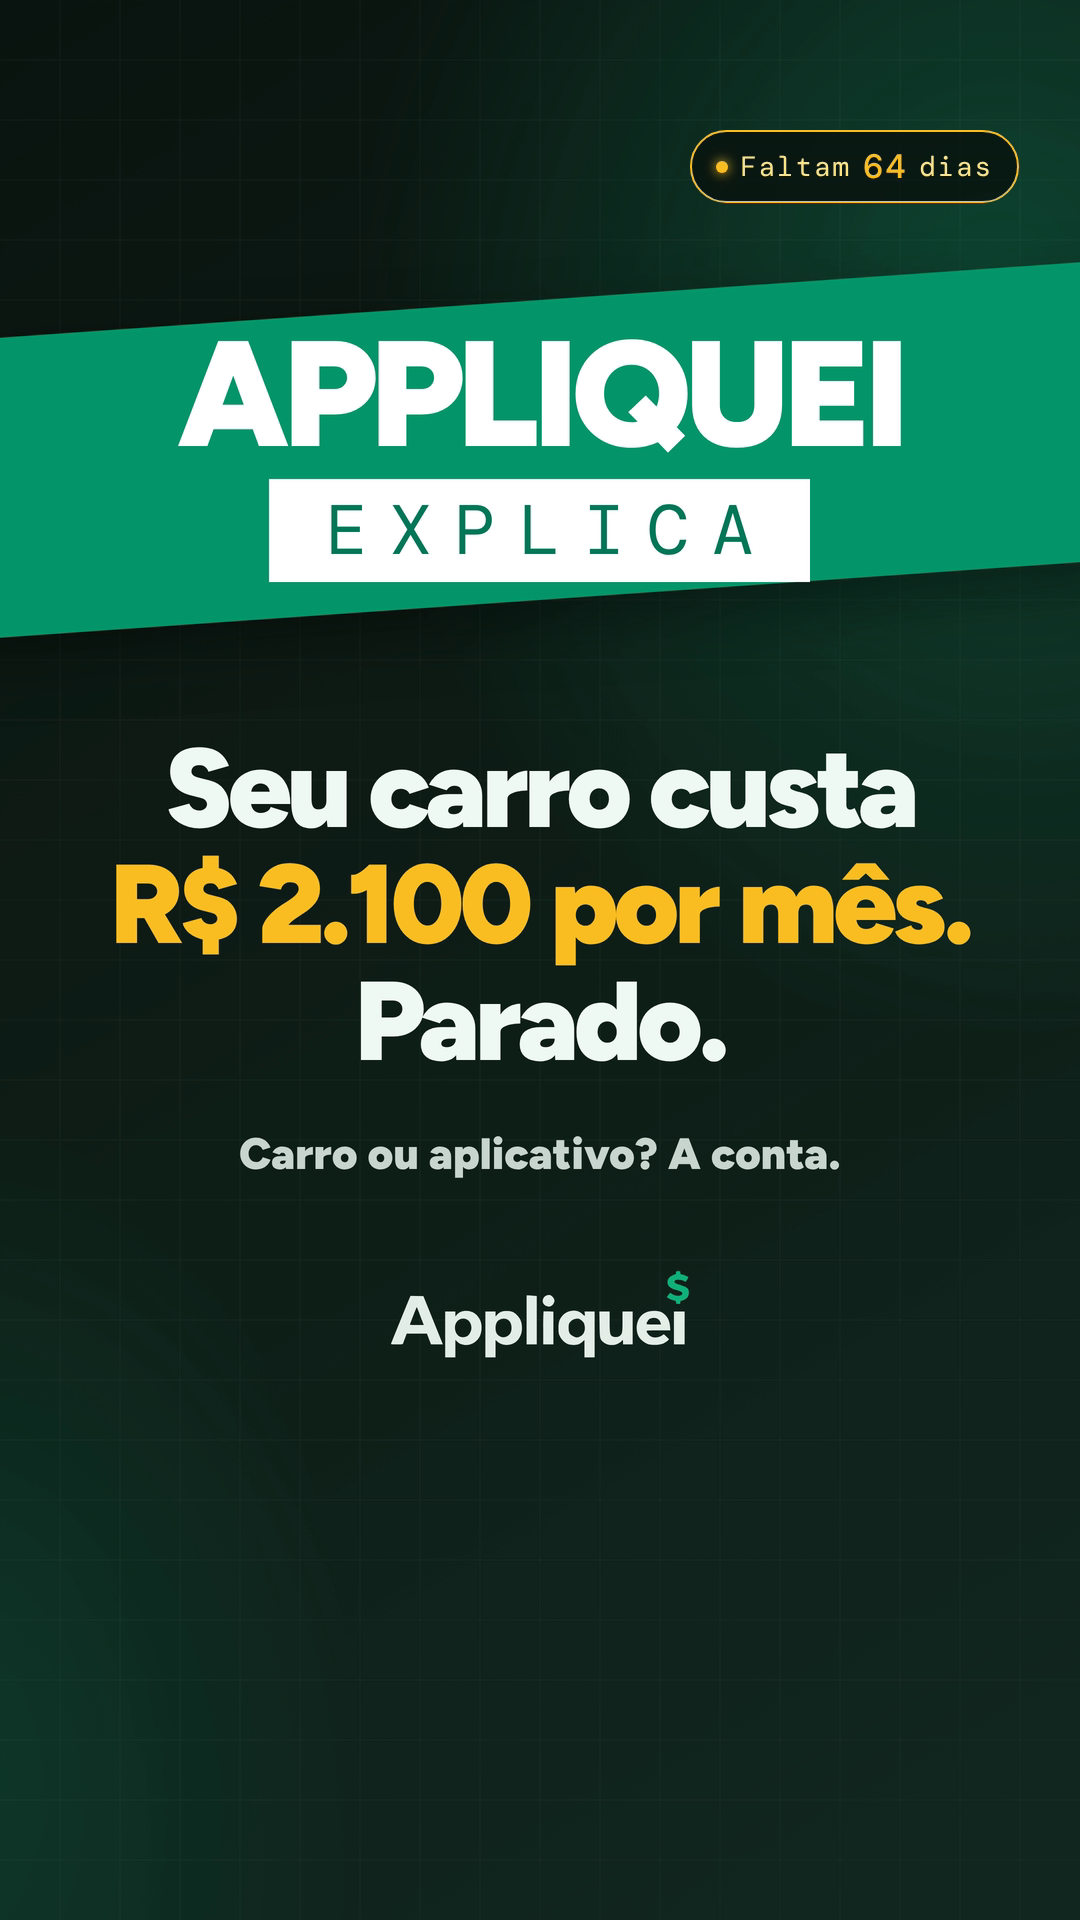
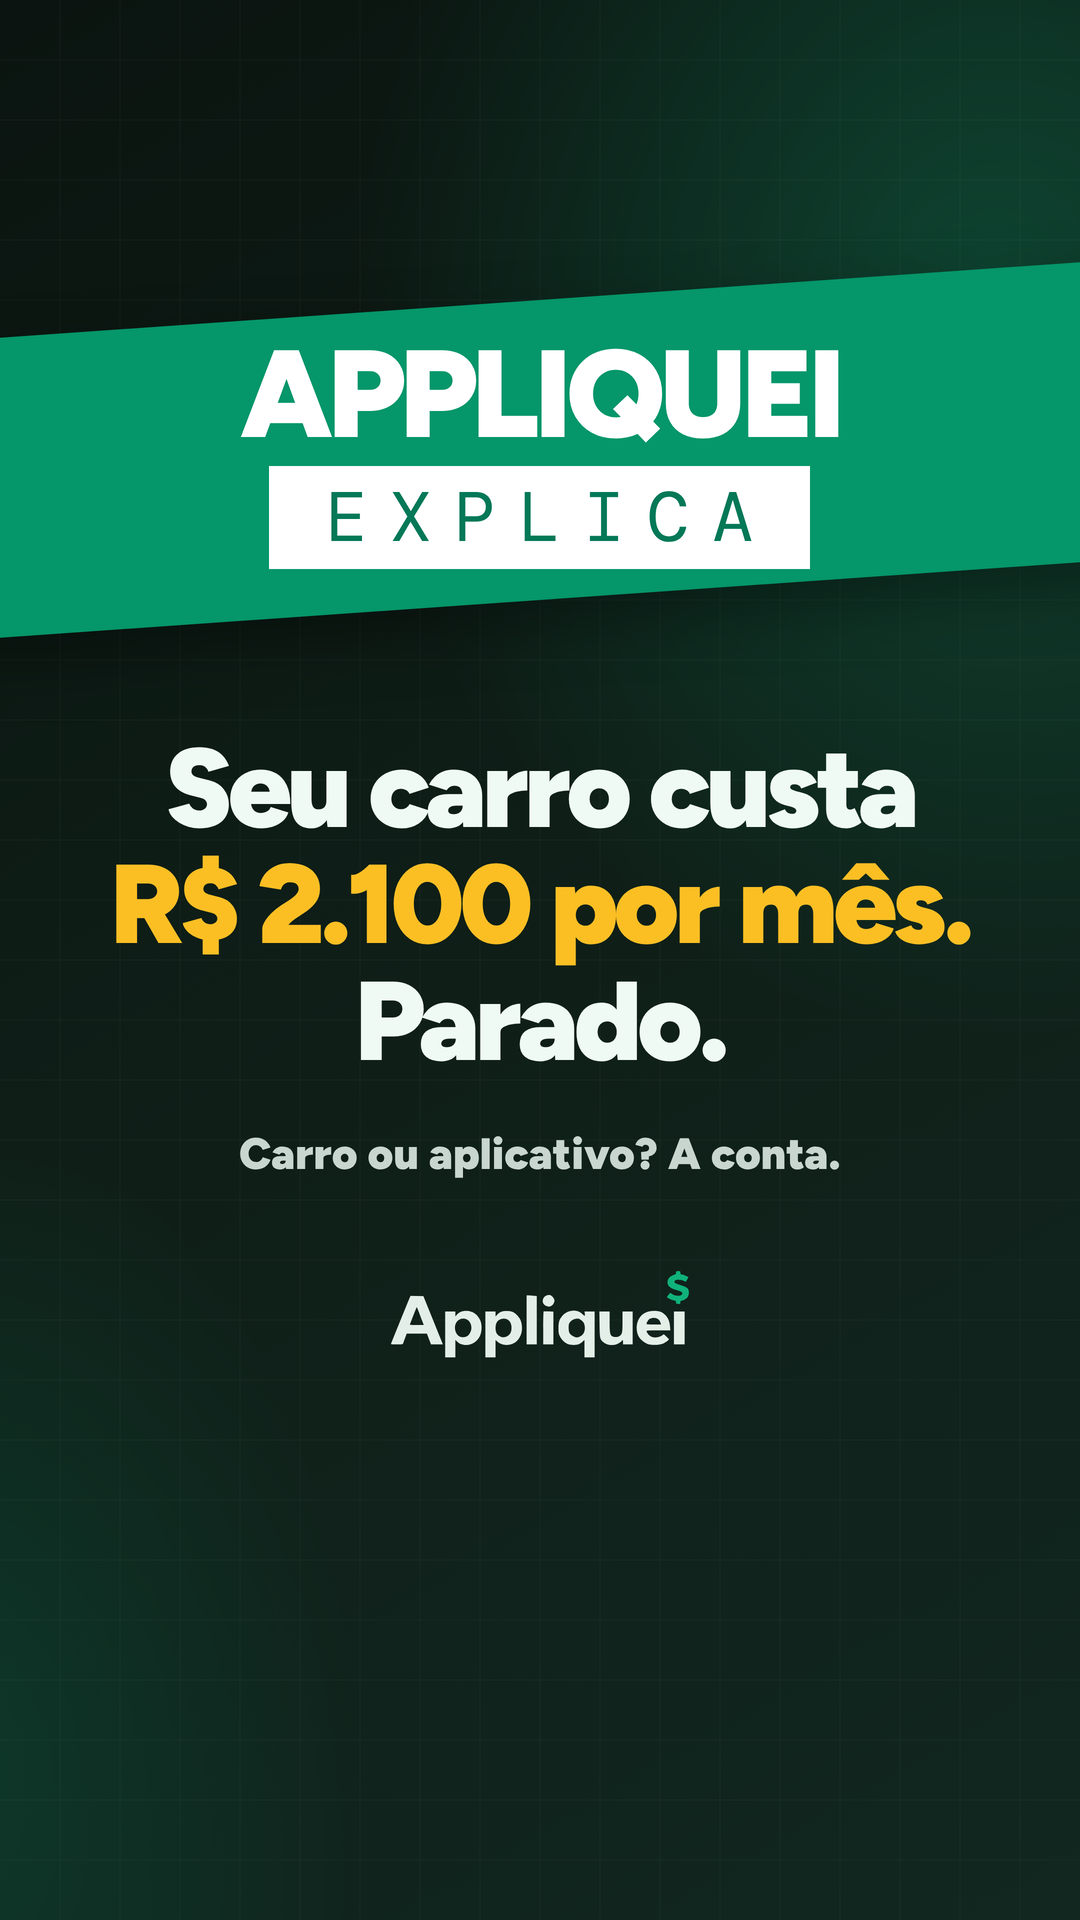
docs(marketing): plano de crescimento da página e capas no padrão novo (#218)
* Marketing: plano de crescimento da página até o lançamento

Claude-Session: https://claude.ai/code/session_01Hjqp9BZBHRq7RefmKXkXic

* Marketing: crescimento dentro da grade seg/qua/sex e pacote de 06/11 com CTA do próximo tema

Claude-Session: https://claude.ai/code/session_01Hjqp9BZBHRq7RefmKXkXic

* Marketing: sem rosto/voz dos sócios e passo a passo do perfil

Claude-Session: https://claude.ai/code/session_01Hjqp9BZBHRq7RefmKXkXic

* Marketing: corrige tipo do post do propósito

Claude-Session: https://claude.ai/code/session_01Hjqp9BZBHRq7RefmKXkXic

* Marketing: capas com faixa livre do ícone do Instagram e plano do perfil a partir do print de 05/11

Claude-Session: https://claude.ai/code/session_01Hjqp9BZBHRq7RefmKXkXic

* Marketing: banner desafixado não fica alinhado; arquivar

Claude-Session: https://claude.ai/code/session_01Hjqp9BZBHRq7RefmKXkXic

* Marketing: capas ajustadas de começar cedo, carro e dólar

Claude-Session: https://claude.ai/code/session_01Hjqp9BZBHRq7RefmKXkXic

* Marketing: padrão de capa registrado e capa de 02/01 refeita

Claude-Session: https://claude.ai/code/session_01Hjqp9BZBHRq7RefmKXkXic

* Marketing: foto de perfil só com o ícone; nome e bio feitos

Claude-Session: https://claude.ai/code/session_01Hjqp9BZBHRq7RefmKXkXic

* Marketing: banner fica fixado (fundador) e capas trocadas

Claude-Session: https://claude.ai/code/session_01Hjqp9BZBHRq7RefmKXkXic

* style: prettier no plano de crescimento
[…]

diff --git a/marketing/ferramentas/shorts/capa.js b/marketing/ferramentas/shorts/capa.js
@@ -68,14 +68,14 @@ svg.malha { position: absolute; inset: 0; }
 .faixa-news { position: absolute; left: -40px; right: -40px; top: 300px; height: 300px; background: #b91c1c;
   display: flex; flex-direction: column; align-items: center; justify-content: center; transform: skewY(-4deg);
   box-shadow: 0 24px 60px rgba(0,0,0,.35); }
-.faixa-news b { font-size: 150px; font-weight: 900; letter-spacing: -.045em; line-height: 1; color: #fff; transform: skewY(4deg); }
+.faixa-news b { font-size: 124px; font-weight: 900; letter-spacing: -.045em; line-height: 1; color: #fff; transform: skewY(4deg); }
 .faixa-news span { margin-top: 10px; padding: 6px 34px; background: #fff; color: #b91c1c; font-family: 'DM Mono', monospace;
   font-size: 70px; letter-spacing: .32em; text-indent: .32em; transform: skewY(4deg); }
 .faixa-news.explica { background: #059669; }
 .faixa-news.ouro { background: linear-gradient(100deg, #a86b12 0%, #f6d365 18%, #fff3c4 28%, #e2a72e 42%, #b97a17 58%, #f9dc7a 74%, #fff1b8 82%, #c88a1e 100%); border-top: 3px solid #fff1b8; border-bottom: 3px solid #8a5a0c; }
-.faixa-news.ouro img { width: 640px; transform: skewY(4deg); }
+.faixa-news.ouro img { width: 600px; transform: skewY(4deg); }
 .faixa-news.lanc-verde { background: #059669; }
-.faixa-news.lanc-verde img { width: 640px; transform: skewY(4deg); }
+.faixa-news.lanc-verde img { width: 600px; transform: skewY(4deg); }
 .aviso-lanc { padding: 14px 34px; border-radius: 99px; background: linear-gradient(100deg, #a86b12 0%, #f6d365 18%, #fff3c4 28%, #e2a72e 42%, #b97a17 58%, #f9dc7a 74%, #fff1b8 82%, #c88a1e 100%); font-family: 'DM Mono', monospace; font-weight: 500;
   font-size: 40px; letter-spacing: .14em; text-transform: uppercase; color: #2a1a04; margin-bottom: 56px; box-shadow: 0 10px 24px rgba(0,0,0,.4); }
 .faixa-news.explica span { color: #047857; }

diff --git a/.claude/skills/marketing-saas/referencias/crescimento.md b/.claude/skills/marketing-saas/referencias/crescimento.md
@@ -1,0 +1,177 @@
+# Crescimento da página até o lançamento
+
+Pedido do fundador em 05/11/2026: "se especializar em crescer a nossa página o
+mais rápido possível". Este arquivo é o plano de crescimento; leia junto com
+`analise-metricas.md` (como ler os números) e `marketing/conteudo/COMBINADOS.md`
+(o que já foi decidido). **A análise propõe, o fundador decide**: nada aqui
+muda série, dia, horário, voz ou personagem sem o "sim" dele.
+
+## Onde estamos (retrato de 05/11, @app.liquei)
+
+| Número (30 dias)            | Valor       | Leitura                                             |
+| --------------------------- | ----------- | --------------------------------------------------- |
+| Seguidores                  | **16**      | a conta ainda é "fria" para o algoritmo             |
+| Reels / views               | 8 / 1.411   | ~176 views por Reel, quase tudo de quem não segue   |
+| Tempo médio / retenção      | 5,6 s / 14% | **o gargalo**: a pessoa sai antes da conta aparecer |
+| Compartilhamentos / alcance | 0,9%        | perto do bom (1%); News #2 fez 3,5%                 |
+| Salvos / alcance            | 0,1%        | quase zero: a regra de bolso não chega a ser vista  |
+| Seguiram pelos Reels        | **0**       | ninguém vê motivo para seguir                       |
+| Visitas ao perfil / cliques | 81 / 0      | quem visita não encontra o que fazer                |
+
+Funil de crescimento de uma conta pequena:
+
+```
+Distribuição (views de quem não segue) → Retenção (fica até a virada)
+→ Visita ao perfil → Segue  → Lista de espera / link
+```
+
+Hoje o vazamento é na **retenção** (5,6 s) e no **perfil → seguir** (0 de 81).
+Mais views sem consertar esses dois só aumenta o balde furado.
+
+## Meta até 02/01/2027
+
+- **Norte:** seguidores ganhos por semana (Instagram + TikTok + YouTube).
+- Metas propostas (rever na revisão de 16/11 com dados reais):
+  - até 16/11: retenção acima de 25% e tempo médio acima de 10 s em pelo menos
+    1 Reel; primeiro "seguiu pelo Reel" > 0;
+  - até 30/11: 100 seguidores somando as três redes;
+  - até 02/01: 500+ seguidores e uma lista de espera para avisar no dia.
+- Nunca inventar número para bater meta: só o que vem da API ou do print.
+
+## As alavancas, em ordem de impacto para esta conta
+
+### 1. Retenção — os 3 primeiros segundos (prioridade máxima)
+
+O Instagram e o TikTok só empurram o Reel para mais gente quem fica. Com 5 s
+de tempo médio, o algoritmo para de distribuir depois do primeiro lote.
+
+- **Primeiro quadro = o conflito, não a marca.** Número grande + pergunta
+  ("R$ 7 ou R$ 70?") já no quadro 0; nada de logo, vinheta ou selo grande
+  antes disso (o teste da abertura nova, de 04/11, segue valendo).
+- **Movimento no 1º segundo:** texto que entra, número que muda, corte seco.
+  Tela parada no começo = rolagem.
+- **Duração:** 20–35 s até a retenção passar de 30%. O News #2 com 47,6 s não
+  melhorou o tempo médio; vídeo mais curto sobe a % assistida e ganha
+  reassistida.
+- **Sem rosto nem voz do fundador ou do sócio** (fundador, 05/11). A
+  retenção sobe pelo roteiro e pela edição: número no quadro 0, movimento
+  no 1º segundo, vídeo curto e as vozes Charon e Sulafat.
+- **Gancho testado dentro da grade:** sem Reel extra (fundador, 05/11), o
+  teste de gancho é um por Reel da grade: cada Reel muda só a abertura e
+  compara o tempo médio com o anterior da mesma série.
+
+### 2. Grade fixa: seg, qua e sex, nada a mais (fundador, 05/11)
+
+"Precisamos potencializar dentro do que temos de cronograma seg qua e sex."
+Não há Reel extra em ter, qui ou sáb (nem Reel de teste). Cada um dos 3 Reels
+tem de render o máximo, com o ciclo de 4 tempos abaixo ("Ciclo de cada
+Reel da grade"). O mesmo vídeo já vai para Instagram, TikTok e YouTube às
+19h; o TikTok distribui mais para conta nova, então pedir os prints de lá.
+
+### 3. Perfil que converte visita em seguidor (81 visitas, 0 seguiram)
+
+**Como estava (print de 05/11):** nome "Appliquei"; bio genérica ("Seu
+dinheiro precisa de direção… Organize suas finanças… Em breve!") que não diz
+o que a pessoa ganha seguindo; os 3 fixados eram o banner Missão/Visão/
+Valores (fala da empresa, não de quem chega); dois Reels com o selo antigo
+"Conta de Padaria" (nome rejeitado em 29/10); "Toda semana, dois encontros
+marcados" anuncia a grade velha; e o ícone de Reel/fixado do Instagram cobria
+o "I" de APPLIQUEI nas capas com faixa (corrigido em `capa.js` em 05/11:
+faixa com 124 px, livre do canto superior direito).
+
+Quem faz é o sócio (dono do Instagram), uma vez só:
+
+1. ✅ (05/11) **Nome** (Editar perfil › Nome, entra na busca): `Appliquei • Finanças pessoais`.
+2. ✅ (05/11) **Bio** (sem citar o app até 26/12):
+   `A conta do dinheiro do dia a dia que ninguém te mostra 🧮` /
+   `💡 Seg e sex: Appliquei Explica` / `📰 Qua: Appliquei News` /
+   `⏳ 02/01/2027: vem aí`.
+3. ✅ (05/11) **Banner Missão/Visão/Valores fixado** (decisão do fundador:
+   fica nos 3 fixados; não arquivar nem propor de novo). Desafixado ele não
+   fica junto: cada post novo empurra a grade uma casa. Como os fixados são
+   do banner, os Reels fortes aparecem pela ordem da grade; para dar força a
+   eles, usar o comentário fixado e o envio na 1ª hora.
+4. ✅ (05/11) **Capas trocadas** pelas novas com faixa (todas as da grade).
+5. **Arquivar** (⋯ › Arquivar, dá para desfazer): "Toda semana, dois
+   encontros marcados" (grade velha) e "Por que o Appliquei existe?" (feito
+   antes do print de 05/11, 16h).
+6. **Link da bio:** não existe lista de espera, então não prometer uma
+   (CONAR). Até 26/12, sem link; em 26/12 entra a página do app.
+7. **Foto:** só o ícone verde, grande, sem a palavra (`marketing/perfil/foto-perfil.png`, 1080×1080) (no círculo pequeno a
+   palavra "Appliquei" fica ilegível).
+
+### 4. Pedir o "seguir" com motivo
+
+"Segue pra não perder" é genérico. Dar o motivo concreto:
+
+- "Toda segunda e sexta tem uma conta dessas. Segue que a próxima é sobre
+  [tema real da próxima]." (o tema seguinte já está no `CALENDARIO.md`).
+- Série com número ("Conta nº 9") cria colecionismo e faz o perfil parecer
+  vivo.
+- O CTA falado entra antes do fim (quem chega ao fim é pouca gente hoje).
+
+### 5. Compartilhamento — o que mais leva para fora (News #2: 3,5%)
+
+- O que funcionou no News #2: notícia do dia + valor no bolso. Manter o News
+  na notícia mais quente da véspera.
+- CTA de envio com pessoa concreta: "manda pra quem parcela tudo" (já
+  combinado; conferir se está sendo falado e escrito).
+- Temas que geram "olha isso": comparação de dois caminhos com número
+  surpreendente (geladeira, carro), não conceitos (50-30-20).
+
+### 6. Distribuição fora do algoritmo (custa tempo, não dinheiro)
+
+- **Rede própria nos primeiros 100:** fundador e sócio mandam cada Reel no
+  WhatsApp (status e 3–5 grupos onde o tema cabe), sempre o link do Reel,
+  não o arquivo. Conta nova precisa das primeiras interações na 1ª hora.
+- **Comentar com valor** nos posts de perfis grandes de finanças e consumo
+  nos primeiros minutos após eles postarem (comentário com a conta, não
+  "segue lá"). Rende visitas ao perfil.
+- **Collab** (post em coautoria do Instagram) com perfis pequenos de
+  finanças, humor de dia a dia ou consumo (5–50 mil seguidores): o Reel
+  aparece para os dois públicos. Propor 1 por quinzena; a Appliquei entra com
+  o roteiro e a edição prontos.
+- **Grupo de testadores e lista de espera:** quem já conhece o app é o
+  primeiro a compartilhar. Uma mensagem por Reel forte, não por todos.
+
+### 7. Busca (SEO do Instagram, TikTok e YouTube)
+
+- 1ª linha da legenda = gancho com a palavra que a pessoa procura ("cartão de
+  crédito", "reserva de emergência", "parcelado ou à vista").
+- A mesma palavra **escrita na tela** e **falada** nos 3 primeiros segundos
+  (TikTok e Instagram leem as duas).
+- YouTube: título com a pergunta exata que as pessoas digitam.
+
+### 8. Pago — só depois da retenção
+
+Impulsionar Reel com retenção de 14% é pagar para a pessoa rolar. Quando um
+Reel passar de 30% de retenção: R$ 10–20/dia por 3 dias, objetivo "visitas
+ao perfil", público frio 22–40 anos. Medir custo por seguidor; se passar de
+R$ 1,50, parar e voltar para o orgânico. Gasto só com o "sim" do fundador.
+
+**Sorteio:** sorteio de prêmio no Brasil depende de autorização (Lei
+5.768/71); "concurso cultural" tem regras próprias. Não propor sem passar
+pelo jurídico (ver `docs/PENDENCIAS-LANCAMENTO.md`).
+
+## Ciclo de cada Reel da grade (seg, qua, sex)
+
+Tudo o que não for o vídeo acontece em volta dos 3 dias, sem post extra.
+
+| Quando                 | O que fazer                                                                                                                                                                                                                                 | Quem              |
+| ---------------------- | ------------------------------------------------------------------------------------------------------------------------------------------------------------------------------------------------------------------------------------------- | ----------------- |
+| **Véspera (produção)** | gancho com número no quadro 0; 20–35 s; palavra buscável na 1ª linha, na tela e na fala; CTA de seguir com o **tema do próximo Reel**; pedido de envio para uma pessoa concreta                                                             | Claude            |
+| **19h (postagem)**     | conferir vídeo × legenda; postar nas 3 redes; fixar o comentário com pergunta                                                                                                                                                               | quem posta        |
+| **19h–20h (1ª hora)**  | responder todo comentário (resposta com a conta gera 2º comentário); fundador e sócio mandam o **link** do Reel no status e em 3–5 grupos onde o tema cabe; comentar com a conta em 2–3 posts recentes de perfis grandes sobre o mesmo tema | fundador e sócio  |
+| **Dia seguinte**       | números do Reel (painel + prints do TikTok/YouTube); se for o melhor da semana, vai para os fixados do perfil                                                                                                                               | Claude + fundador |
+
+Nos dias sem Reel (ter, qui, sáb) não se posta nada; dá para usar o tempo em
+perfil, collab e respostas.
+
+## Como medir se está funcionando
+
+- **Toda segunda:** seguidores ganhos na semana (3 redes), melhor Reel pelo
+  tempo médio e por compartilhamento, e qual alavanca mudou na semana.
+- **Uma mudança de conteúdo por vez** (regra de `analise-metricas.md`); as
+  alavancas de perfil, distribuição e volume podem andar juntas porque não
+  mexem no vídeo.
+- Registrar cada teste em `marketing/metricas/LEIAME.md`.

diff --git a/.claude/skills/marketing-saas/SKILL.md b/.claude/skills/marketing-saas/SKILL.md
@@ -1,6 +1,6 @@
 ---
 name: marketing-saas
-description: Especialista em marketing de vendas de SaaS e criação de conteúdo para redes sociais da Appliquei — posicionamento, funil (atenção → teste grátis → assinatura → indicação), copy de venda, roteiros de Reels/Shorts/TikTok, carrosséis, posts, stories, legendas, calendário editorial e métricas. Use SEMPRE que o pedido for divulgar, vender ou comunicar o app — "faz um post", "cria um shorts/reels", "roteiro de vídeo", "legenda pro Instagram", "ideias de conteúdo", "calendário de posts", "como vender mais", "anúncio", "copy da landing", "mensagem pro grupo de teste", "campanha de lançamento", "como trazer clientes" — e também quando ele pedir peça visual com a identidade da marca. Use antes de publicar qualquer peça para checar promessas (CVM, CDC, CONAR) e números contra o produto real.
+description: Especialista em marketing de vendas de SaaS e criação de conteúdo para redes sociais da Appliquei — posicionamento, funil (atenção → teste grátis → assinatura → indicação), copy de venda, roteiros de Reels/Shorts/TikTok, carrosséis, posts, stories, legendas, calendário editorial e métricas. Use SEMPRE que o pedido for divulgar, vender ou comunicar o app — "faz um post", "cria um shorts/reels", "roteiro de vídeo", "legenda pro Instagram", "ideias de conteúdo", "calendário de posts", "como vender mais", "anúncio", "copy da landing", "mensagem pro grupo de teste", "campanha de lançamento", "como trazer clientes", "crescer a página", "ganhar seguidores" — e também quando ele pedir peça visual com a identidade da marca. Use antes de publicar qualquer peça para checar promessas (CVM, CDC, CONAR) e números contra o produto real.
 ---
 
 # Marketing de vendas de SaaS — Appliquei
@@ -140,6 +140,12 @@ linha da semana.
   mudança de conteúdo (um teste por vez, mais as alavancas que não são
   conteúdo: perfil, comentários, collab, Reel de teste, impulsionar, busca). Use sempre que o pedido for analisar desempenho ou decidir o
   próximo tema com base nos números.
+
+- `referencias/crescimento.md` — **plano para crescer a página até o
+  lançamento**: retrato atual, metas, as alavancas em ordem de impacto
+  (retenção, ciclo de cada Reel da grade seg/qua/sex, perfil, CTA de seguir, compartilhamento,
+  distribuição fora do algoritmo, busca, pago) e o ritmo semanal. Use sempre
+  que o pedido for crescer, ganhar seguidores ou alcance.
 
 ## O que esta skill não faz
 

diff --git a/marketing/conteudo/publicar/LEIAME.md b/marketing/conteudo/publicar/LEIAME.md
@@ -181,6 +181,7 @@ original (AirDrop, Drive/iCloud ou WhatsApp como **Documento**).
 3. Configurações avançadas: "Carregar na qualidade mais alta" ligado.
 4. Colar a legenda e publicar às 19h.
 5. Fixar o comentário: `Você é o Caio ou o Mateus? Quanto você separa no dia do salário? 👇` e responder todos na 1ª hora.
+6. **Até 20h (fundador e sócio):** mandar o **link** do Reel no status do WhatsApp e em 3–5 grupos (família, trabalho, condomínio: tema de salário cabe em todos) com a frase `Seu salário cai amanhã? Olha essa conta 👇`.
 
 ```
 O salário cai até amanhã. Dia 20, o do Mateus já acabou. 💸
@@ -193,9 +194,9 @@ O Caio faz ao contrário: no dia do salário, antes de qualquer conta, separa R$
 
 Salva pra agendar a sua amanhã 🔖 e manda pra quem diz que nunca sobra nada. 🔁
 
-💡 Appliquei Explica: a conta do dia a dia, toda segunda e sexta.
+💡 Appliquei Explica: a conta do dia a dia, toda segunda e sexta. Segunda: a garantia estendida que a loja empurra no caixa. Segue pra ver.
 
-⏳ Faltam 57 dias para o que estamos preparando pra 2027. Segue pra não perder.
+⏳ Faltam 57 dias para o que estamos preparando pra 2027.
 
 Conteúdo educacional. Em novembro de 2026, o quinto dia útil é sábado, 7 (o sábado conta; o feriado de Finados, não): é o prazo da CLT (art. 459) para pagar o salário. Valores ilustrativos, sem rendimento. Personagens fictícios.
 
@@ -209,7 +210,7 @@ Conteúdo educacional. Em novembro de 2026, o quinto dia útil é sábado, 7 (o 
 3. Colar a legenda e publicar às 19h.
 
 ```
-O salário cai até amanhã. Dia 20, o do Mateus já acabou. 💸 Primeiro você se paga, depois paga o resto: R$ 300 no dia do salário viram R$ 3.600 no ano. Segue pra não perder. ⏳ Faltam 57 dias.
+O salário cai até amanhã. Dia 20, o do Mateus já acabou. 💸 Primeiro você se paga, depois paga o resto: R$ 300 no dia do salário viram R$ 3.600 no ano. Segunda tem a garantia estendida: segue pra ver. ⏳ Faltam 57 dias.
 
 #educacaofinanceira #salario #financaspessoais #dinheiro #quintodiautil
 ```

diff --git a/marketing/conteudo/COMBINADOS.md b/marketing/conteudo/COMBINADOS.md
@@ -118,6 +118,12 @@ true`), mesmo modelo do News.
   ligado; no TikTok, "Permitir upload em alta qualidade".
 - **Capa** com a frase do gancho em todo vídeo (`capa.js`), na capa e no
   primeiro quadro (`appliquei-<tema>-com-capa.mp4`).
+- **Padrão da capa (fundador, 05/11):** faixa da série (News vermelha,
+  Explica verde, reta final dourada) com APPLIQUEI em 124 px, longe do canto
+  superior direito, onde o Instagram põe o ícone de Reel e o de fixado (antes
+  ele cobria o "I"). Já está no `capa.js`: toda capa nova sai assim. Conferir
+  no recorte 3:4 da grade antes de entregar. Nada de rótulo "Conta de
+  Padaria" nem capa sem faixa.
 - **Números conferidos com fonte** antes de gravar; aviso educacional e
   "Personagens fictícios" no fim; nada de recomendação (CVM).
 
@@ -141,6 +147,15 @@ true`), mesmo modelo do News.
   TikTok e YouTube por print até ter conexão.
 
 ## Pendentes (lembrar o fundador)
+
+- **Plano de crescimento (05/11):**
+  `.claude/skills/marketing-saas/referencias/crescimento.md`. **Fundador
+  (05/11): só a grade seg, qua e sex, nada a mais** (sem Reel de teste em
+  outros dias); cada Reel segue o "ciclo de cada Reel da grade" (véspera,
+  19h, 1ª hora, dia seguinte). **Sem rosto nem voz do fundador ou do sócio**
+  (fundador, 05/11: "não vamos revelar nossa voz ou rosto"); os Reels
+  seguem com as vozes Charon e Sulafat. Ajuste do perfil: passo a passo
+  na seção "Perfil" do plano, a fazer pelo sócio (dono do Instagram).
 
 - **Conferir vídeo × legenda antes de postar** (04/11): em 02/11 o "Quem
   chegou aos 65 com mais?" saiu com a legenda do "R$ 30 ou R$ 300", às 8h30.
